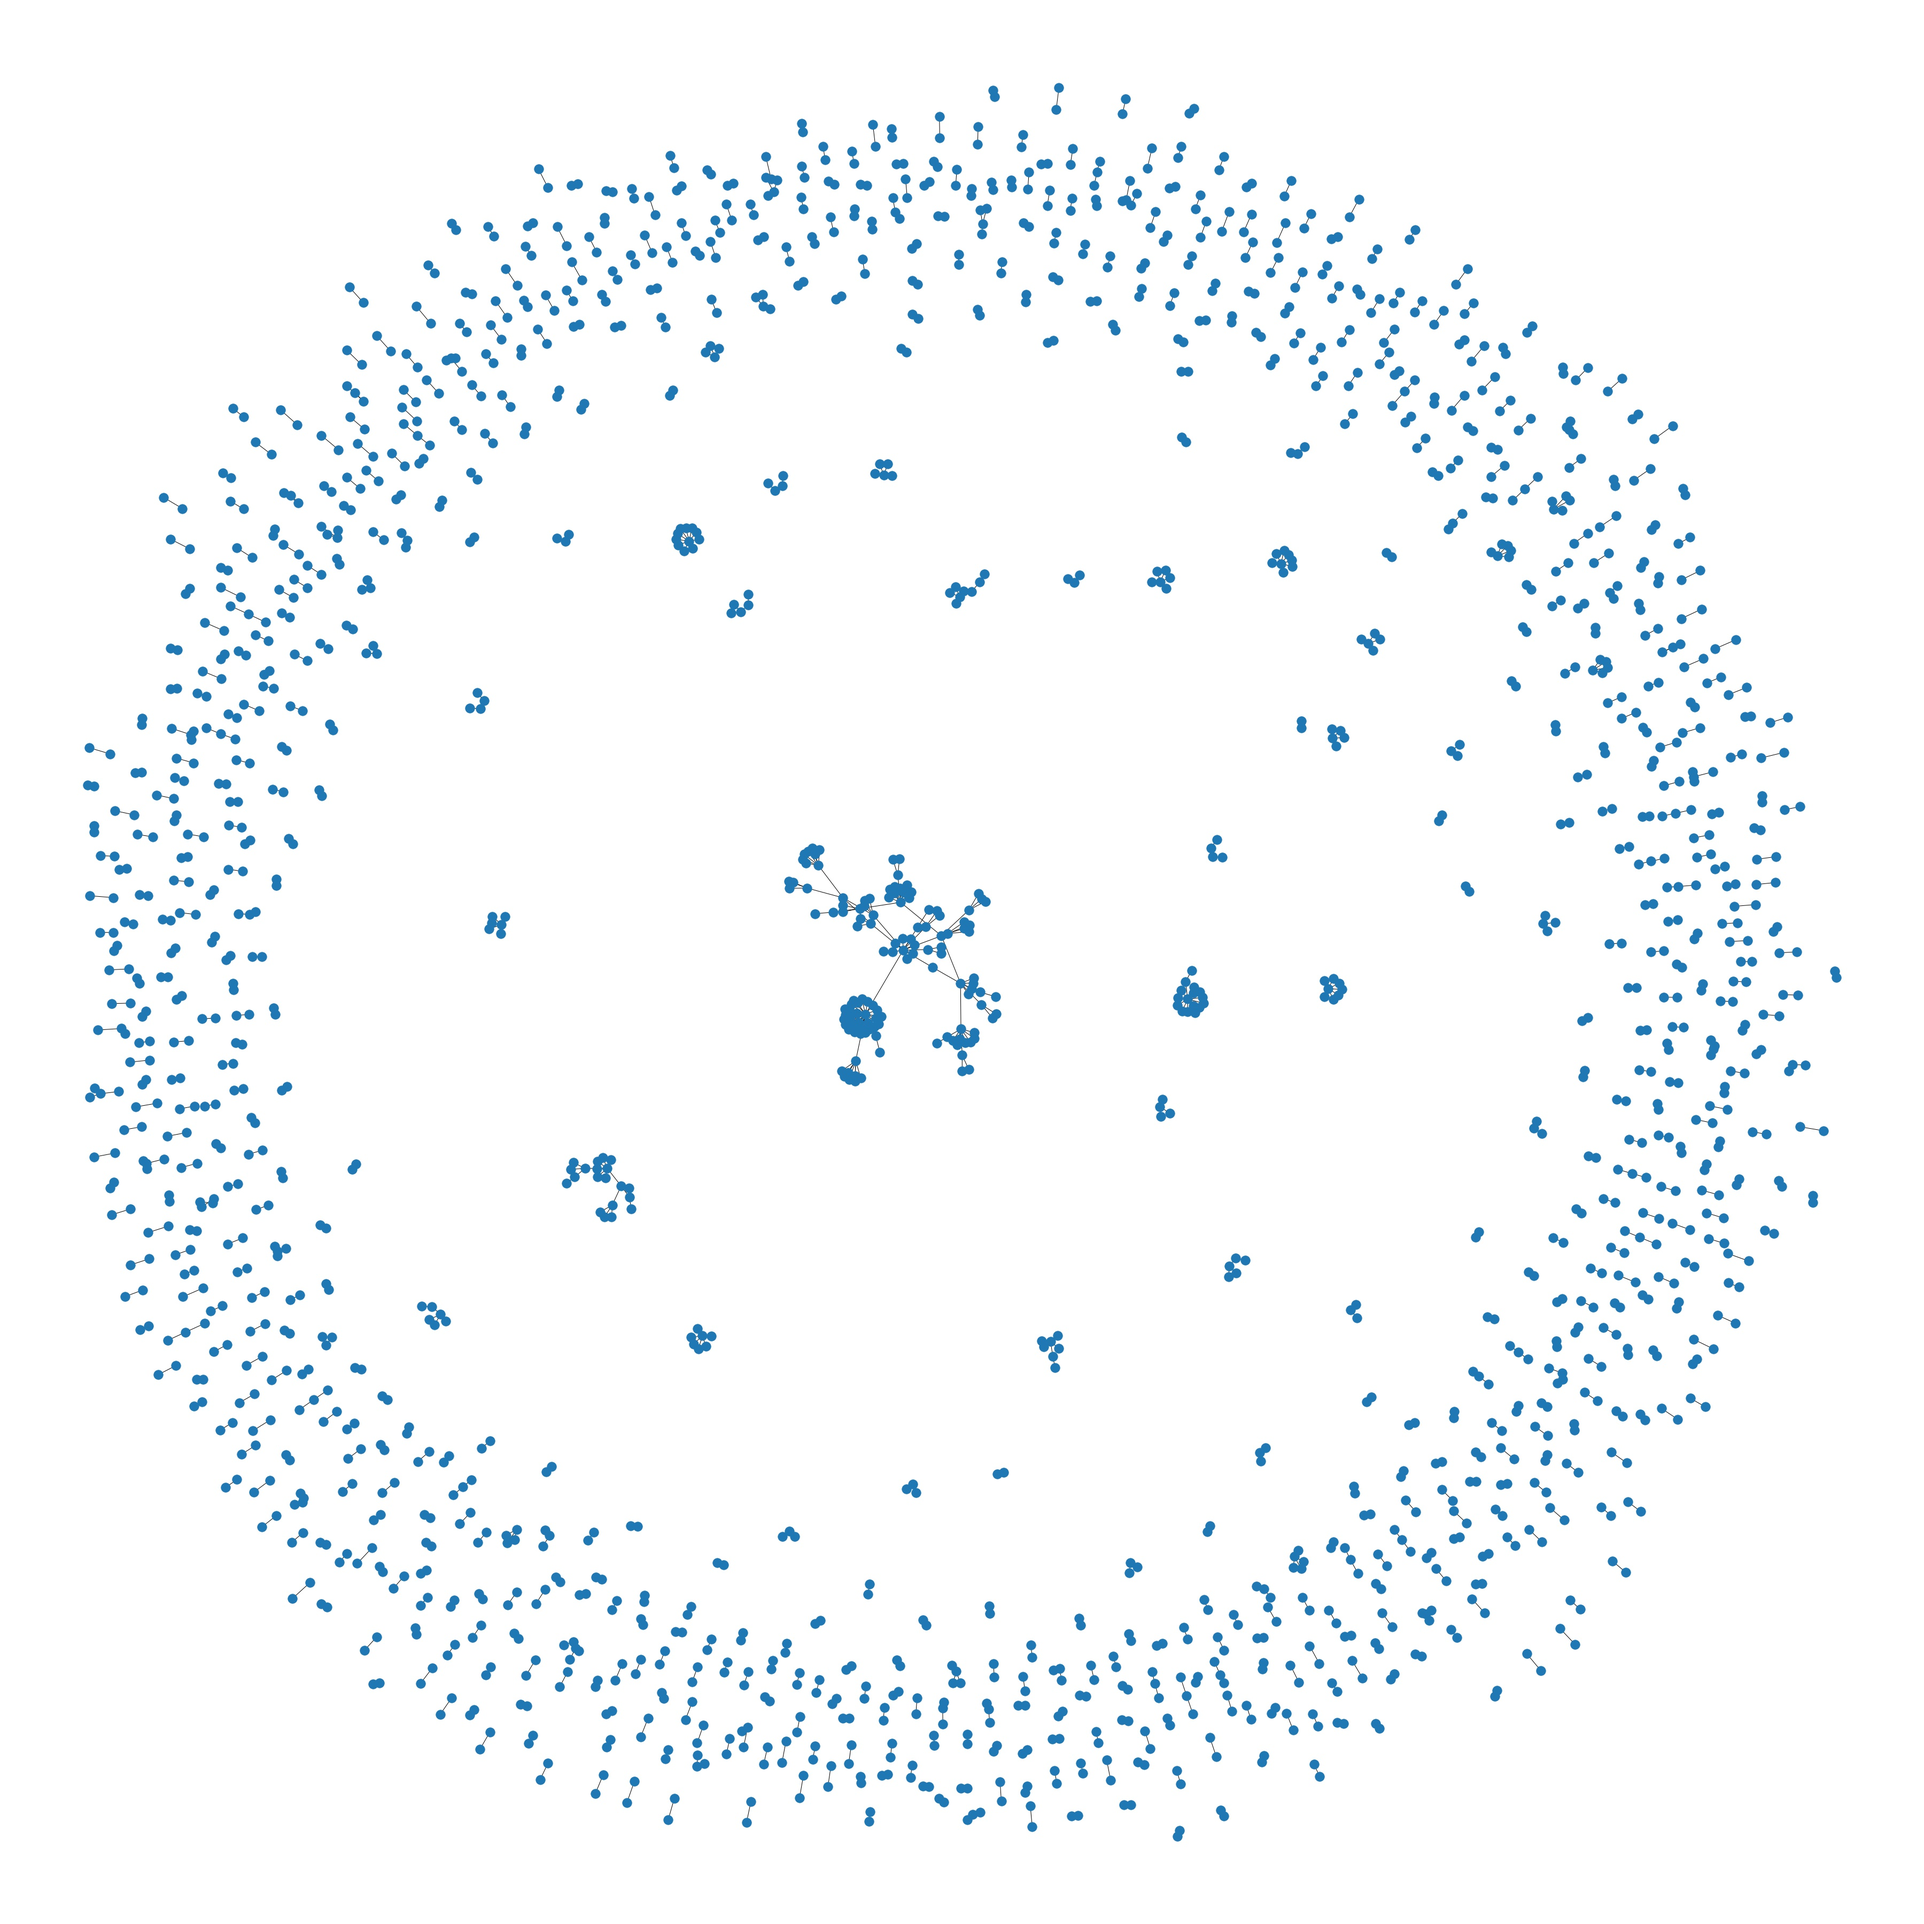
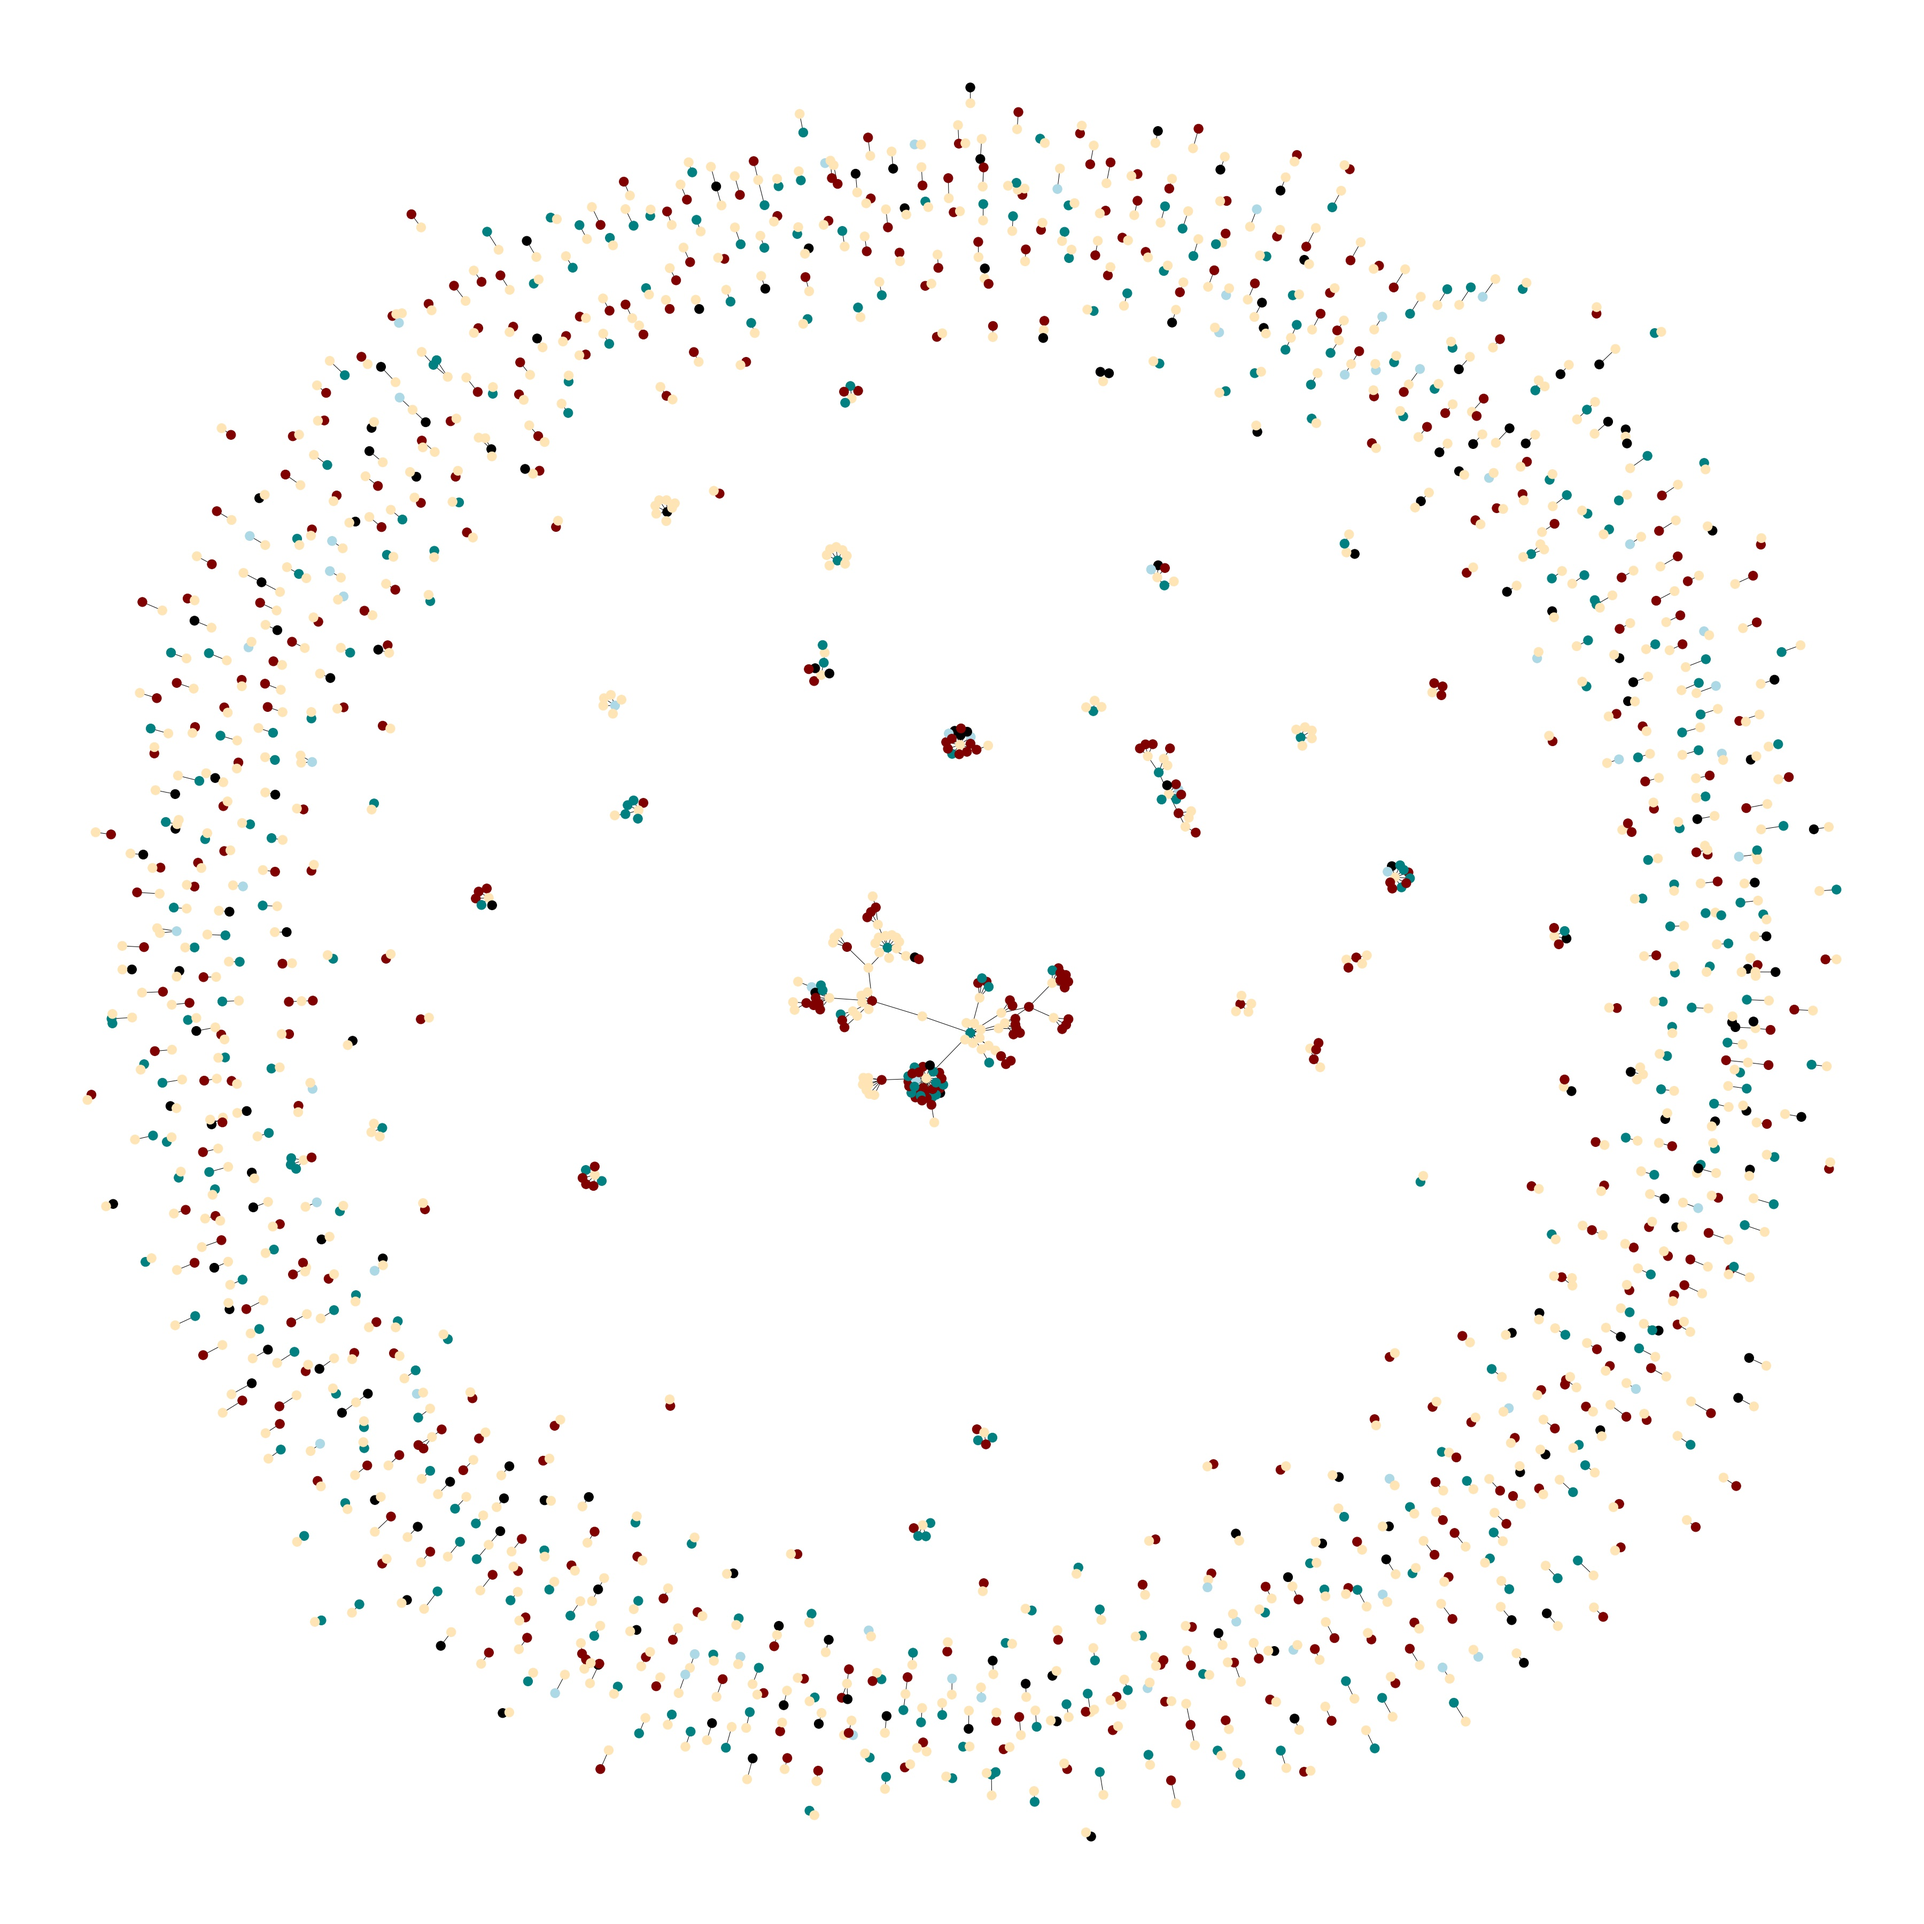
Update node sizes

diff --git a/network_analysis/network_update.py b/network_analysis/network_update.py
@@ -147,14 +147,14 @@ def evaluate(score):
 def mkr(interp):
     ''' Assign marker based on interpretation '''
     if interp == '++':
-        return 'teal'
+        return 'blue'
     if interp == '+':
-        return 'lightblue'
+        return 'teal'
     if interp == ' ':
         return 'moccasin'
     if interp == '-':
         return 'mistyrose'
-    return 'maroon'
+    return 'red'
 
 
 def tweet_polarity(tweet_data):
@@ -190,6 +190,7 @@ def main():
     # Build Network Graph
     network = nx.Graph()
     colors = []
+    subnet_colors = []
     tweet_df['marker_color'] = tweet_df['marker_color'].astype('str')
     
     for index, row in tweet_df.iterrows():
@@ -214,9 +215,18 @@ def main():
     # Identify largest subnetwork
     subnetwork = network.subgraph(max(nx.connected_components(network), key=len))
     
+    for node in subnetwork:
+        if node in tweet_df['user_id'].values:
+            subnet_colors.append((tweet_df.loc[tweet_df['user_id'] == node]['marker_color']).values[0])
+        elif int(float(node)) in tweet_df['user_id'].values:
+            subnet_colors.append((tweet_df.loc[tweet_df['user_id'] == node]['marker_color']).values[0])
+        else:
+            subnet_colors.append("moccasin")    
+    
     # Calculate degrees of each node
     degrees = [deg for (node, deg) in network.degree()]
     sub_degrees = [deg for (node, deg) in subnetwork.degree()]
+    subnet_degrees = dict(subnetwork.degree)
             
     with open('network_analysis-expanded-update-noRTorUM.txt', 'w') as file_out:
         file_out.write('Nodes = {}\n'.format(network.number_of_nodes()))
@@ -241,11 +251,12 @@ def main():
     
 
     plt.figure(figsize=(50,50))
-    nx.draw(network)
+    nx.draw(network, node_color=colors)
     plt.savefig('network-usa-update-noRToruM-color.jpg')
     
     plt.figure(figsize=(50,50))
-    nx.draw(subnetwork)
+    nx.draw(subnetwork, node_color=subnet_colors,
+            node_size=[v * 1000 for v in subnet_degrees.values()])
     plt.savefig('subnetwork-usa-update-noRToruM-color.jpg')
 
 if __name__ == "__main__":
